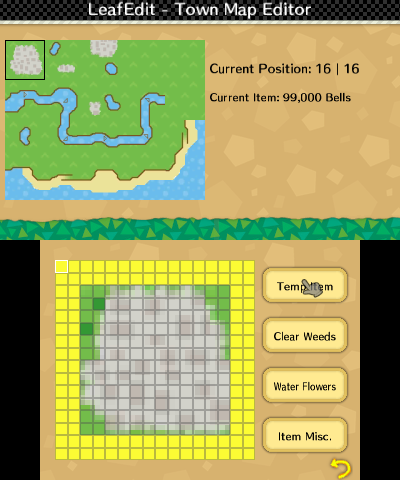
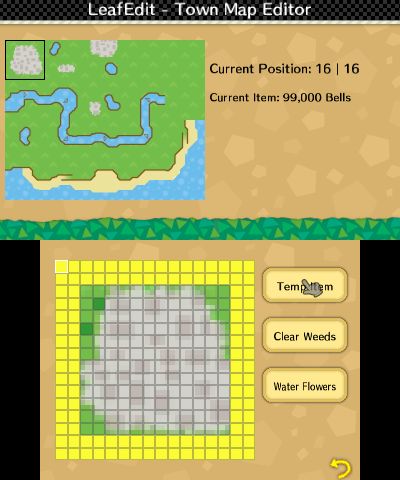
Last fixes for now.

Changed region(s): [[0.63, 0.8438, 0.87, 0.9688]]

diff --git a/3ds/source/overlay/creditsOverlay.cpp b/3ds/source/overlay/creditsOverlay.cpp
@@ -34,24 +34,21 @@ static void Draw(int page) {
 	C2D_TargetClear(Top, C2D_Color32(0, 0, 0, 0));
 	C2D_TargetClear(Bottom, C2D_Color32(0, 0, 0, 0));
 
-	/* 2 -> QR Code. */
-	if (page != 2) {
-		GFX::DrawTop();
-		GFX::DrawGUI(gui_bottom_bar_idx, 0, 209);
-		Gui::DrawStringCentered(0, -2, 0.9f, WHITE, "LeafEdit - " + Lang::get("CREDITS"), 400, 0, font);
-		Gui::DrawStringCentered(0, 30, 0.9f, BLACK, Lang::get("DEVELOPED_BY"), 390, 0, font);
-		Gui::DrawStringCentered(0, 50, 0.9f, BLACK, Lang::get("MAIN_DEV"), 390, 0, font);
-		GFX::DrawGUI(gui_stackz_idx, 5, 74);
-		GFX::DrawGUI(gui_universal_core_idx, 200, 110);
-		Gui::DrawString(395-Gui::GetStringWidth(0.8, Lang::get("CURRENT_VERSION") + V_STRING, font), 218, 0.8, WHITE, Lang::get("CURRENT_VERSION") + V_STRING, 400, 0, font);
-		if (fadealpha > 0) Gui::Draw_Rect(0, 0, 400, 240, C2D_Color32(fadecolor, fadecolor, fadecolor, fadealpha));
+	GFX::DrawTop();
+	GFX::DrawGUI(gui_bottom_bar_idx, 0, 209);
+	Gui::DrawStringCentered(0, -2, 0.9f, WHITE, "LeafEdit - " + Lang::get("CREDITS"), 400, 0, font);
+	Gui::DrawStringCentered(0, 30, 0.9f, BLACK, Lang::get("DEVELOPED_BY"), 390, 0, font);
+	Gui::DrawStringCentered(0, 50, 0.9f, BLACK, Lang::get("MAIN_DEV"), 390, 0, font);
+	GFX::DrawGUI(gui_stackz_idx, 5, 74);
+	GFX::DrawGUI(gui_universal_core_idx, 200, 110);
+	Gui::DrawString(395-Gui::GetStringWidth(0.8, Lang::get("CURRENT_VERSION") + V_STRING, font), 218, 0.8, WHITE, Lang::get("CURRENT_VERSION") + V_STRING, 400, 0, font);
+	if (fadealpha > 0) Gui::Draw_Rect(0, 0, 400, 240, C2D_Color32(fadecolor, fadecolor, fadecolor, fadealpha));
 
-		GFX::DrawBottom();
-		GFX::DrawGUI(gui_top_bar_idx, 0, 0);
-		GFX::DrawGUI(gui_bottom_bar_idx, 0, 209);
+	GFX::DrawBottom();
+	GFX::DrawGUI(gui_top_bar_idx, 0, 0);
+	GFX::DrawGUI(gui_bottom_bar_idx, 0, 209);
 
-		Gui::DrawStringCentered(0, 219, 0.8f, WHITE, Lang::get("CURRENT_PAGE") + std::to_string(page + 1) + " | 3", 310, 0, font);
-	}
+	Gui::DrawStringCentered(0, 219, 0.8f, WHITE, Lang::get("CURRENT_PAGE") + std::to_string(page + 1) + " | 1", 310, 0, font);
 
 	/* Credits Pages. */
 	if (page == 0) {
@@ -64,22 +61,6 @@ static void Draw(int page) {
 		Gui::DrawStringCentered(0, 148, 0.7f, BLACK, Lang::get("HELPING_OUT_PROBLEMS"), 310, 0, font);
 		Gui::DrawStringCentered(0, 178, 0.8f, BLACK, "TotallyNotGuy", 310, 0, font);
 		Gui::DrawStringCentered(0, 198, 0.7f, BLACK, Lang::get("GRAPHIC_WORK"), 310, 0, font);
-
-	} else if (page == 1) {
-		Gui::DrawStringCentered(0, -2, 0.8f, WHITE, Lang::get("TRANSLATORS"), 310, 0, font);
-		Gui::DrawString(5, 45, 0.8f, BLACK, "Deutsch\nEnglish\nEspañol\nFrançais\nItaliano\nLietuvių\nPortuguês\n日本語", 310, 0, font);
-		Gui::DrawString(150, 45, 0.8f, BLACK, "SuperSaiyajinStackZ\nSuperSaiyajinStackZ\nYoSoy\nantoine62\nedo9300\nlemonnade0\nChips, David Pires\nPk11", 310, 0, font);
-	}
-
-	if (page == 2) {
-		GFX::DrawTop();
-		Gui::Draw_Rect(0, 0, 400, 240, DIM);
-		GFX::DrawGUI(gui_discord_idx, 115, 35);
-		if (fadealpha > 0) Gui::Draw_Rect(0, 0, 400, 240, C2D_Color32(fadecolor, fadecolor, fadecolor, fadealpha));
-		GFX::DrawBottom();
-		Gui::Draw_Rect(0, 0, 320, 240, DIM);
-		Gui::DrawStringCentered(0,-2, 0.8f, WHITE, Lang::get("CURRENT_PAGE") + std::to_string(page + 1) + " | 3", 310, 0, font);
-		if (fadealpha > 0) Gui::Draw_Rect(0, 0, 320, 240, C2D_Color32(fadecolor, fadecolor, fadecolor, fadealpha));
 	}
 
 	C3D_FrameEnd(0);
@@ -94,13 +75,15 @@ void Overlays::showCredits() {
 		u32 hDown = hidKeysDown();
 		hidScanInput();
 
+		/*
 		if (hDown & KEY_RIGHT) {
-			if (page < 2) page++;
+			if (page < 1) page++;
 		}
 
 		if (hDown & KEY_LEFT) {
 			if (page > 0) page--;
 		}
+		*/
 
 		if (hDown & KEY_B) doOut = true;
 	}

diff --git a/3ds/source/screens/nl/villagerEditorNL.cpp b/3ds/source/screens/nl/villagerEditorNL.cpp
@@ -73,7 +73,7 @@ void VillagerEditorNL::DrawSubMenu(void) const {
 	Gui::DrawStringCentered(0, 100, 0.9f, BLACK, Lang::get("VILLAGER_NAME") + std::get<1>(villagerDB[this->villager->id()]), 395, 0, font);
 
 	Gui::DrawStringCentered(0, 130, 0.9f, BLACK, Lang::get("VILLAGER_PERSONALITY") + ": " + getPersonality(this->villager->personality()), 395, 0, font);
-	Gui::DrawStringCentered(0, 160, 0.9f, BLACK, Lang::get("VILLAGER_CATCHPHRASE") + ": ", 395, 0, font);
+	//Gui::DrawStringCentered(0, 160, 0.9f, BLACK, Lang::get("VILLAGER_CATCHPHRASE") + ": ", 395, 0, font);
 
 	if (fadealpha > 0) Gui::Draw_Rect(0, 0, 400, 240, C2D_Color32(fadecolor, fadecolor, fadecolor, fadealpha));
 	GFX::DrawBottom();

diff --git a/3ds/source/screens/ww/villagerEditorWW.cpp b/3ds/source/screens/ww/villagerEditorWW.cpp
@@ -70,7 +70,7 @@ void VillagerEditorWW::DrawSubMenu(void) const {
 
 	Gui::DrawStringCentered(0, 100, 0.9f, BLACK, Lang::get("VILLAGER_NAME") + std::get<1>(villagerDB[this->villager->id()]), 395, 0, font);
 	Gui::DrawStringCentered(0, 130, 0.9f, BLACK, Lang::get("VILLAGER_PERSONALITY") + ": " + getPersonality(this->villager->personality()), 395, 0, font);
-	Gui::DrawStringCentered(0, 160, 0.9f, BLACK, Lang::get("VILLAGER_CATCHPHRASE") + ": ", 395, 0, font);
+	//Gui::DrawStringCentered(0, 160, 0.9f, BLACK, Lang::get("VILLAGER_CATCHPHRASE") + ": ", 395, 0, font);
 
 	if (fadealpha > 0) Gui::Draw_Rect(0, 0, 400, 240, C2D_Color32(fadecolor, fadecolor, fadecolor, fadealpha));
 	GFX::DrawBottom();

diff --git a/3ds/source/screens/nl/playerEditorNL.cpp b/3ds/source/screens/nl/playerEditorNL.cpp
@@ -470,7 +470,7 @@ void PlayerEditorNL::PlayerLogic(u32 hDown, u32 hHeld, touchPosition touch) {
 			this->player->islandmedals((u32)Input::setInt(9999, "Enter medal amount.", 4, this->player->islandmedals()));
 
 
-		} else if (touching(touch, this->playerButtons[2])) {
+		} else if (touching(touch, this->playerButtons[3])) {
 			if (savesType == SaveType::WA) {
 				this->player->coupons((u32)Input::setInt(9999, "Enter coupon amount.", 4, this->player->coupons()));
 			}

diff --git a/3ds/include/screens/nl/villagerEditorNL.hpp b/3ds/include/screens/nl/villagerEditorNL.hpp
@@ -58,8 +58,8 @@ private:
 		{15, 34, 102, 20, "VILLAGER_REPLACE"}, // Replace.
 		{15, 97, 102, 20, "VILLAGER_PERSONALITY"}, // Personality.
 		{15, 159, 102, 20, "ITEMS"}, // Items.
-		{175, 34, 102, 20, "VILLAGER_CATCHPHRASE"}, // Catchphrase.
-		{175, 97, 102, 20, "VILLAGER_STATUS"}, // Status.
+		{175, 34, 102, 20, ""}, // Catchphrase.
+		{175, 97, 102, 20, ""}, // Status.
 		{175, 159, 102, 20, ""} // ?.
 	};
 

diff --git a/3ds/include/screens/ww/villagerEditorWW.hpp b/3ds/include/screens/ww/villagerEditorWW.hpp
@@ -57,8 +57,8 @@ private:
 		{15, 34, 102, 20, "VILLAGER_REPLACE"}, // Replace.
 		{15, 97, 102, 20, "VILLAGER_PERSONALITY"}, // Personality.
 		{15, 159, 102, 20, "ITEMS"}, // Items.
-		{175, 34, 102, 20, "VILLAGER_CATCHPHRASE"}, // Catchphrase.
-		{175, 97, 102, 20, "VILLAGER_STATUS"}, // Status.
+		{175, 34, 102, 20, ""}, // Catchphrase.
+		{175, 97, 102, 20, ""}, // Status.
 		{175, 159, 102, 20, ""} // ?.
 	};
 

diff --git a/3ds/source/screens/nl/townMapEditorNL.cpp b/3ds/source/screens/nl/townMapEditorNL.cpp
@@ -226,7 +226,7 @@ void TownMapEditorNL::DrawMapScreen(void) const {
 	this->DrawCurrentPos();
 
 	/* Draw the Operation Buttons. */
-	for (int i = 0; i < 4; i++) {
+	for (int i = 0; i < 3; i++) {
 		GFX::DrawButton(mainButtons[i], 0.6f);
 	}
 

diff --git a/3ds/source/screens/ww/townMapEditorWW.cpp b/3ds/source/screens/ww/townMapEditorWW.cpp
@@ -222,7 +222,7 @@ void TownMapEditorWW::DrawMapScreen(void) const {
 	this->DrawCurrentPos();
 
 	/* Draw the Operation Buttons. */
-	for (int i = 0; i < 4; i++) {
+	for (int i = 0; i < 3; i++) {
 		GFX::DrawButton(mainButtons[i], 0.6f);
 	}
 
